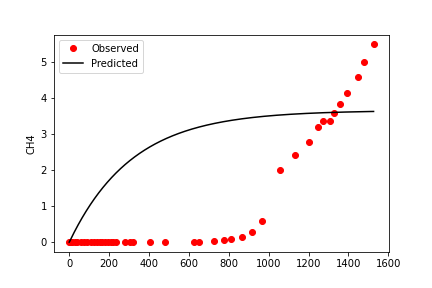
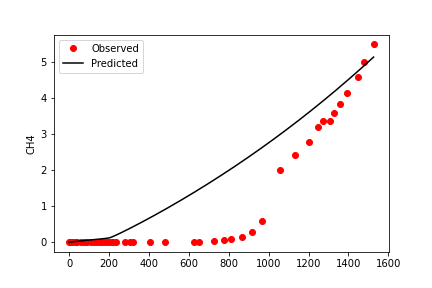
optimize only selected parameters
initial values and bounds are important!

diff --git a/refactored.py b/refactored.py
@@ -360,24 +360,24 @@ def fit_my_model(specimens, Site, opt):
 
         # specify initial guesses and bounds for the parameters to be optimized
         initial_guess_dict = dict()         #   init    lower upper
-        initial_guess_dict['Vmax_Ferm'] =       (0.1,   0., 1.)  
-        initial_guess_dict['Vmax_Fe'] =         (0.3,   0., np.inf)
-        initial_guess_dict['Vmax_Homo'] =       (0.133, 0., np.inf)
-        initial_guess_dict['Vmax_Hydro'] =      (0.086, 0., np.inf)
-        initial_guess_dict['Vmax_Ac'] =         (0.207, 0., np.inf)
-        initial_guess_dict['w_Ferm'] =          (0.05,  0., np.inf)
-        initial_guess_dict['w_Fe'] =            (0.03, 0., 2.)
-        initial_guess_dict['w_Hydro'] =         (0.024, 0., np.inf)
-        initial_guess_dict['w_Homo'] =          (0.049, 0., np.inf)
-        initial_guess_dict['w_Ac'] =            (0.04,  0., np.inf)
-        initial_guess_dict['Sensenmann'] =      (.0004, 0., 1.)
-        initial_guess_dict['Stoch_Fe'] =        (4.,     1.,  10.)
-        initial_guess_dict['Kmb_Ferm'] =        (8.,    1.,  10.)
-        initial_guess_dict['Kmh_Ferm'] =        (8.,    1.,  10.)
-        initial_guess_dict['Kmb_Fe'] =          (1.,    1.,  10.)
-        initial_guess_dict['Kmb_Ac'] =          (8.,    1.,  10.)
-        initial_guess_dict['Kmb_Hydro'] =       (8.,    1.,  10.)
-        initial_guess_dict['Fe'] =              (100.,  0.,  100.)
+        initial_guess_dict['Vmax_Ferm'] =       (0.1,   0.01,0.11)  
+        initial_guess_dict['Vmax_Fe'] =         (0.3,   0.029, 1.9)
+        initial_guess_dict['Vmax_Homo'] =       (0.133, 0.005, 1.)
+        initial_guess_dict['Vmax_Hydro'] =      (0.086, 0.03, 0.2)
+        initial_guess_dict['Vmax_Ac'] =         (0.207, 0.05, 0.39)
+        initial_guess_dict['w_Ferm'] =          (0.05,  0.03, 0.05)
+        initial_guess_dict['w_Fe'] =            (0.013, 0.01, 0.05)
+        initial_guess_dict['w_Hydro'] =         (0.024, 0.01, 0.05)
+        initial_guess_dict['w_Homo'] =          (0.049, 0.01, 0.05)
+        initial_guess_dict['w_Ac'] =            (0.04,  0.01, 0.05)
+        initial_guess_dict['Sensenmann'] =      (8.33e-5, 0, 8.44e-5)
+        initial_guess_dict['Stoch_Fe'] =        (4,     1,  8)
+        initial_guess_dict['Kmb_Ferm'] =        (10,    1,  10)
+        initial_guess_dict['Kmh_Ferm'] =        (10,    1,  10)
+        initial_guess_dict['Kmb_Fe'] =          (10,    1,  10)
+        initial_guess_dict['Kmb_Ac'] =          (10,    1,  10)
+        initial_guess_dict['Kmb_Hydro'] =       (10,    1,  10)
+        initial_guess_dict['Fe'] =              (5.75,  2,  10)
         initial_guess_dict['M_Ac'] =            (0.05,  0.001,  0.2)
 
         # vorbereitung des startpunktes für die optimierung und der bounds 
